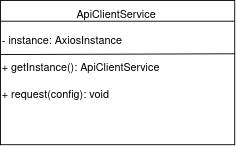
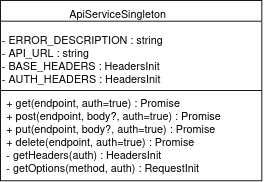
fix - Sigleton Documentation

diff --git a/docs/PadroesDeProjeto/GoFsCriacionais/singleton.md b/docs/PadroesDeProjeto/GoFsCriacionais/singleton.md
@@ -8,50 +8,122 @@ O padrão Singleton é um padrão de projeto do tipo criacional que garante que 
 
 A aplicação do padrão Singleton no projeto “Plante Você Mesmo” é justificada pela necessidade de manter um controle centralizado e eficiente sobre recursos que devem ter apenas uma instância ativa.
 
-No backend, será utilizado no serviço de logger, que registra informações do sistema para depuração e acompanhamento [4]. Ao utilizar uma única instância, todas as mensagens são registradas de maneira centralizada e consistente. Embora não utilize uma classe com `getInstance()`, o logger segue o padrão Singleton de forma **implícita**, ao exportar diretamente uma única instância que é reutilizada automaticamente por todos os módulos da aplicação [1].
 
-```ts
-// src/infra/logger.ts
+No frontend, o Singleton será utilizado **somente para o cliente HTTP** da aplicação Vue.js, implementado pela classe `ApiServiceSingleton`. Essa classe encapsula os métodos `GET`, `POST`, `PUT` e `DELETE`, fornecendo uma instância única reutilizável em todo o sistema. Isso garante que todas as requisições sejam feitas com cabeçalhos padronizados e baseURL consistente, evitando duplicações e erros [2].
 
-import pino from 'pino';
-
-const logger = pino({
-  name: 'plante-vc-mesmo',
-  transport: { target: 'pino-pretty' }
-});
-
-export default logger;
-```
-
-> **Nota sobre o banco de dados:** a conexão com o banco (DataSource do TypeORM) não aparece nesta modelagem, pois sua instância única já é gerenciada pela própria estrutura da **arquitetura hexagonal**, onde os componentes são organizados e compartilhados via container de injeção. Não há necessidade de aplicar um Singleton manual nesse caso [5].
-
-No frontend, o Singleton será utilizado **somente para o cliente HTTP** da aplicação Vue.js. Isso garante que uma única instância com configurações padronizadas (como baseURL e cabeçalhos) seja utilizada em todas as requisições, evitando duplicação de código e inconsistências [2].
 
 ## Vantagens e Justificativas
 
-A principal vantagem do Singleton é o controle centralizado sobre uma instância única de um determinado serviço. Isso é especialmente útil quando a criação de múltiplas instâncias poderia gerar inconsistências ou afetar a performance do sistema [1][3]. No caso da aplicação, garantir que o logger e o cliente HTTP sejam únicos evita duplicidade de logs e chamadas despadronizadas, além de facilitar a manutenção.
+A principal vantagem do Singleton é o controle centralizado sobre uma instância única de um determinado serviço. Isso é especialmente útil quando a criação de múltiplas instâncias poderia gerar inconsistências ou afetar a performance do sistema [1][3]. No caso da aplicação, garantir que o cliente HTTP seja único evita chamadas despadronizadas, além de facilitar a manutenção.
 
-Outra vantagem relevante está na gestão de recursos. Ao manter uma única instância de serviços como o logger ou o cliente HTTP, o sistema evita a repetição de configurações e reduz o consumo de memória [2].
+Outra vantagem relevante está na gestão de recursos. Ao manter uma única instância de serviços como o cliente HTTP, o sistema evita a repetição de configurações e reduz o consumo de memória [2].
 
 > **Observação importante:**  Singleton não facilita os testes automatizados. Na verdade, seu uso pode dificultar a testabilidade ao introduzir acoplamento global e dificultar a substituição por mocks [5]. Por isso, ele deve ser aplicado com cautela e preferencialmente em serviços sem estado, como o logger.
 
 ## Modelagem
 
-Abaixo estão as modelagens dos serviços Singleton utilizados no projeto:
+Abaixo está a modelagem do Singleton utilizado no projeto:
 
-### LoggerService (Backend)
-
-![LoggerService](../../assets/singleton_logger.png)
-
-O `LoggerService` representa a estrutura do serviço de logging no backend. Ele possui um atributo `loggerInstance` que armazena a instância criada com a biblioteca Pino. O método `getInstance()` é simbólico, já que a instância é exportada diretamente do módulo. Toda a aplicação compartilha essa instância única para manter a coerência dos logs.
-
----
 
 ### ApiClientService (Frontend)
 
 ![ApiClientService](../../assets/singleton_apiclient.png)
 
-O `ApiClientService` é o serviço de requisições HTTP no frontend, baseado em uma instância configurada do Axios. Ele possui um método estático `getInstance()` que retorna essa instância, garantindo que todas as partes da aplicação usem a mesma base de configuração nas requisições.
+### ApiServiceSingleton (Frontend)
+
+O `ApiServiceSingleton` é o serviço de requisições HTTP no frontend, responsável por centralizar todas as chamadas para a API. Ele encapsula os métodos `GET`, `POST`, `PUT` e `DELETE`, cada um com lógica interna para configurar cabeçalhos, tratamento de erros e controle de autenticação. Não utiliza o método `getInstance()`, pois a instância já é criada e exportada diretamente, seguindo o padrão Singleton de forma implícita.
+
+```ts
+// src/api/ApiService.ts
+
+import { errorToast } from '@/utils/toast';
+
+type AVAILABLE_METHODS = 'GET' | 'POST' | 'PUT' | 'DELETE';
+
+class ApiServiceSingleton {
+  private ERROR_DESCRIPTION = 'Tente novamente mais tarde!';
+
+  private API_URL: string = import.meta.env.VITE_APP_API_URL;
+  private BASE_HEADERS: HeadersInit = {
+    'Content-Type': 'application/json'
+  };
+  private AUTH_HEADERS: HeadersInit = {
+    'Authorization': 'Bearer'
+  };
+
+  async get(endpoint: string, auth: boolean = true): Promise<Response | undefined> {
+    try {
+      const response = await fetch(`${this.API_URL}${endpoint}`, this.getOptions('GET', auth));
+      return response;
+    } catch (error) {
+      console.error(`[ApiService]: GET - ${error}`);
+      errorToast(this.ERROR_DESCRIPTION);
+    }
+  }
+
+  async post(endpoint: string, body?: object, auth: boolean = true): Promise<Response | undefined> {
+    try {
+      const response = await fetch(`${this.API_URL}${endpoint}`, {
+        ...this.getOptions('POST', auth),
+        body: JSON.stringify(body),
+      });
+      return response;
+    } catch (error) {
+      console.error(`[ApiService]: POST - ${error}`);
+      errorToast(this.ERROR_DESCRIPTION);
+    }
+  }
+
+  async put(endpoint: string, body?: object, auth: boolean = true): Promise<Response | undefined> {
+    try {
+      const response = await fetch(`${this.API_URL}${endpoint}`, {
+        ...this.getOptions('PUT', auth),
+        body: JSON.stringify(body),
+      });
+      return response;
+    } catch (error) {
+      console.error(`[ApiService]: PUT - ${error}`);
+      errorToast(this.ERROR_DESCRIPTION);
+    }
+  }
+
+  async delete(endpoint: string, auth: boolean = true): Promise<Response | undefined> {
+    try {
+      const response = await fetch(`${this.API_URL}${endpoint}`, this.getOptions('DELETE', auth));
+      return response;
+    } catch (error) {
+      console.error(`[ApiService]: DELETE - ${error}`);
+      errorToast(this.ERROR_DESCRIPTION);
+    }
+  }
+
+  private getHeaders(auth: boolean) {
+    if (auth) return {
+      ...this.BASE_HEADERS,
+      ...this.AUTH_HEADERS
+    };
+
+    return this.BASE_HEADERS;
+  }
+
+  private getOptions(method: AVAILABLE_METHODS, auth: boolean): RequestInit {
+    return {
+      method: method,
+      headers: this.getHeaders(auth),
+      credentials: 'include'
+    };
+  }
+}
+
+const ApiService = new ApiServiceSingleton();
+
+export default ApiService;
+```
+
+> Para ver a implementação da classe, acesse o repositório:  
+> [ApiService.ts](https://github.com/UnBArqDsw2025-1-Turma02/2025.1-T02-G3_PlanteVcMesmo_Entrega_03/blob/dev/frontend/src/api/ApiService.ts)
+
+
 
 <font size="3"><p style="text-align: center"><b>Autor:</b> Matheus Brant, 2025 </p></font>
 
@@ -73,3 +145,4 @@ O `ApiClientService` é o serviço de requisições HTTP no frontend, baseado em
 | 0.0.4  | 30-05-2025 | Adaptações e Correções Necessárias para a coerência com o projeto    | Matheus Brant                            |
 | 0.0.5  | 30-05-2025 | Substituição do diagrama textual por imagens UML  | Matheus Brant                            |
 | 0.0.6  | 30-05-2025 | Citações numeradas das referências no texto       | Matheus Brant                            |
+| 0.0.7  | 30-05-2025 | Ajustes na documentação do ApiService             | Matheus Brant                            |
